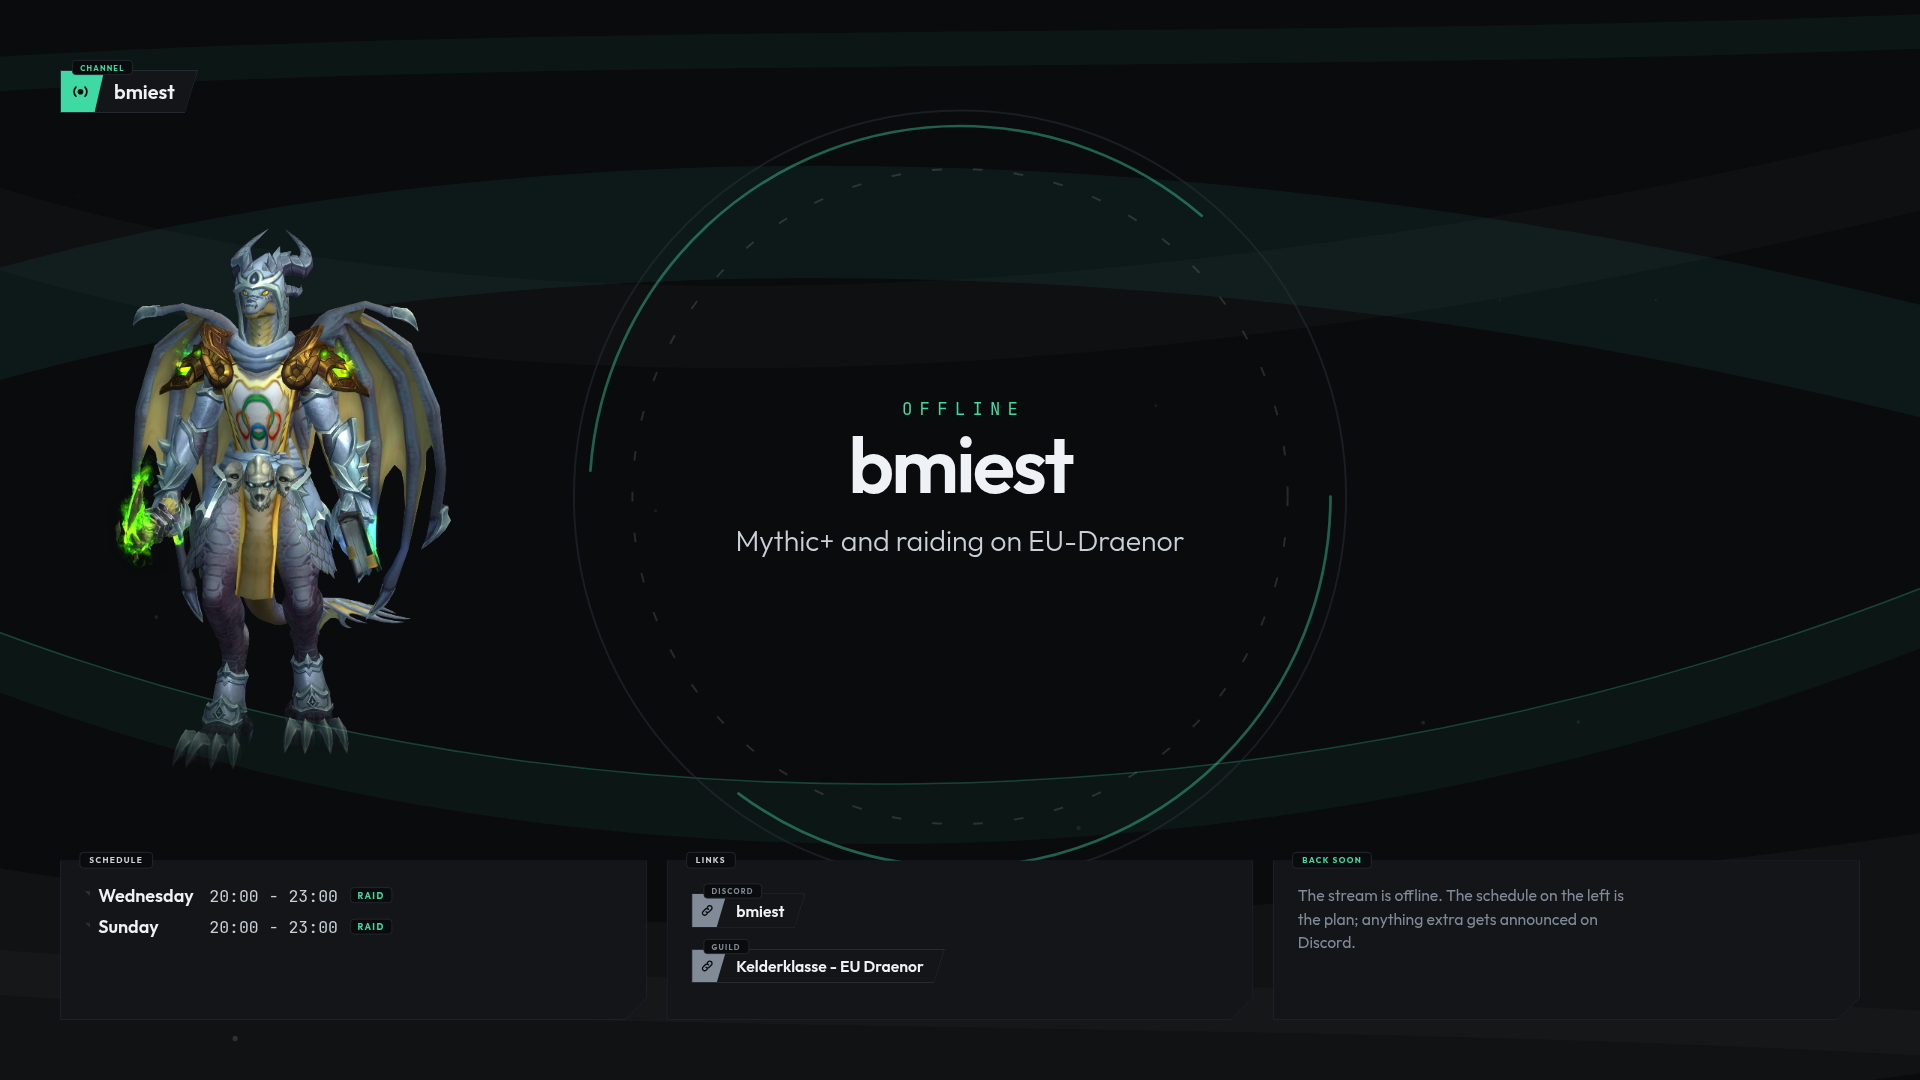
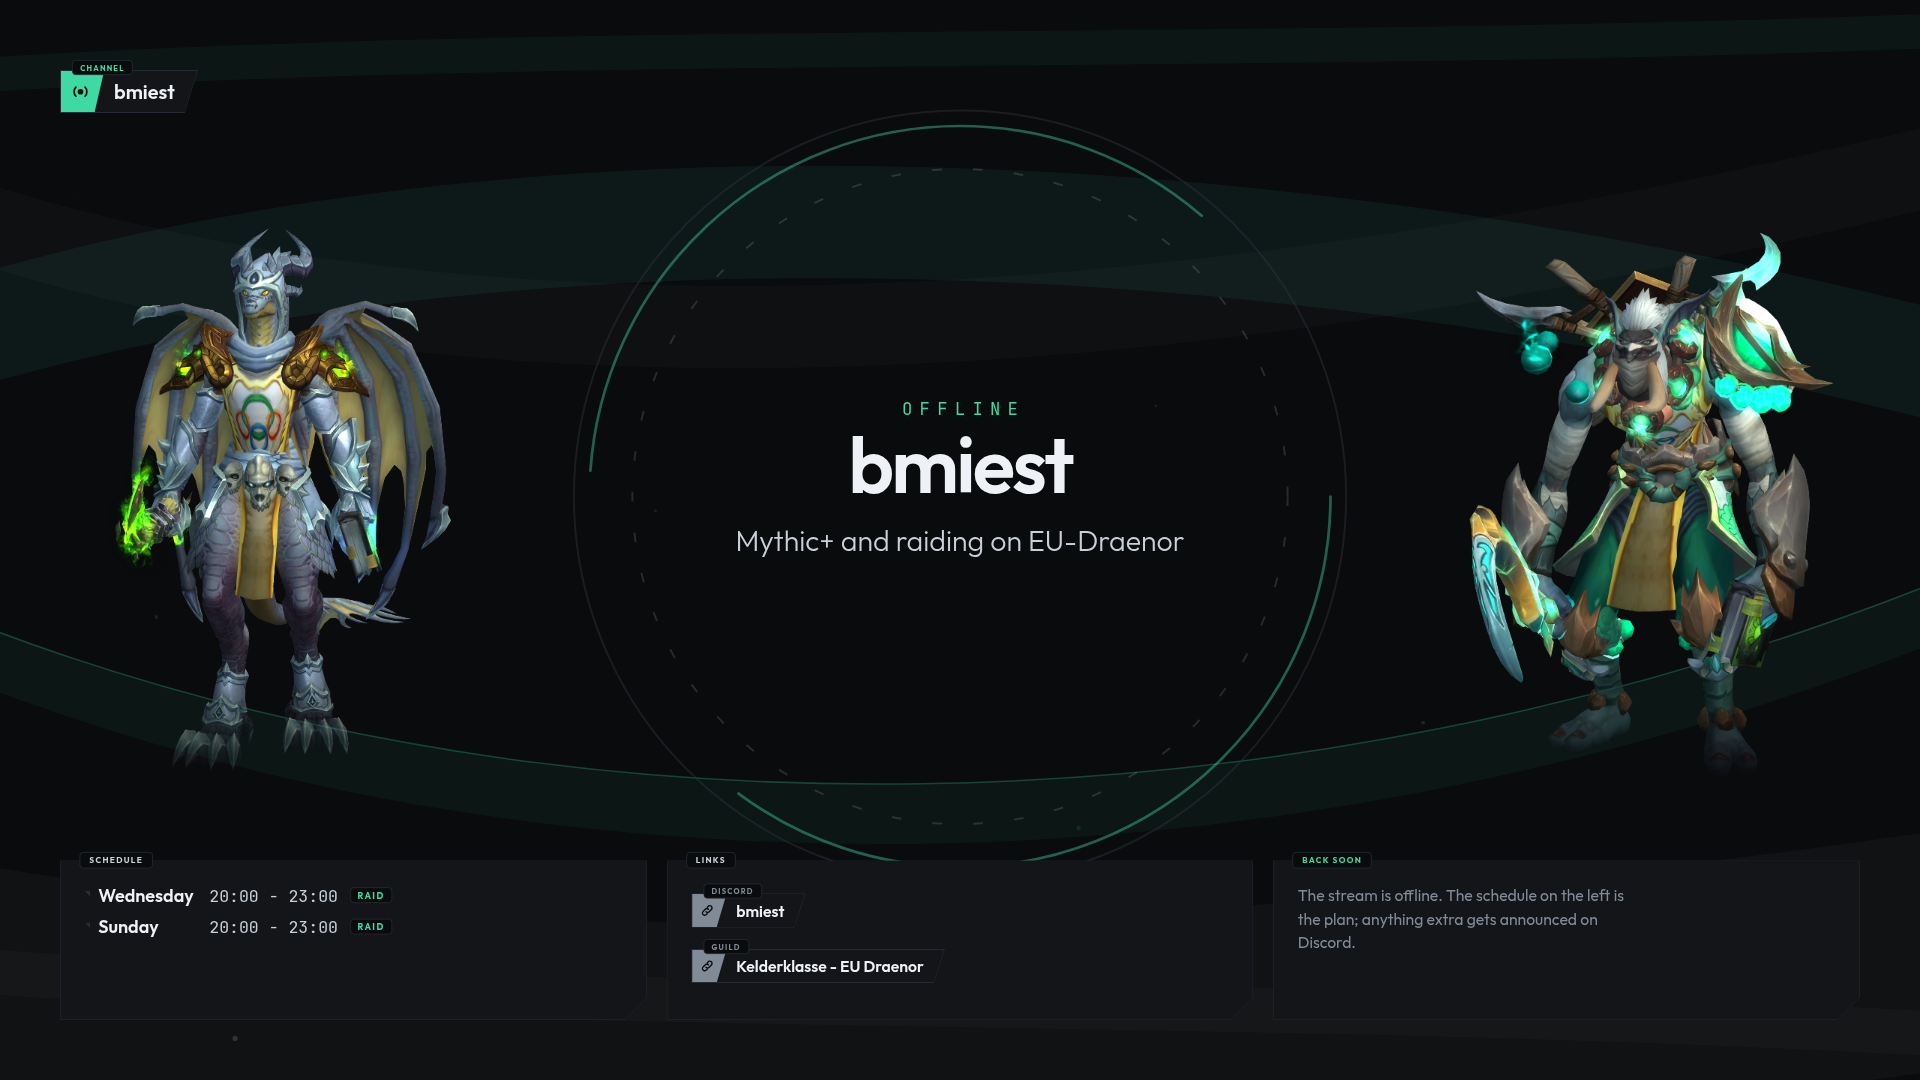
Twee characters op de flanken van de pauzeschermen
Rechts stond nog leeg. De starting-, brb- en ending-schermen en het
offline-scherm zetten nu de eerste twee characters uit je config op de twee
flanken, in configvolgorde. Staat er maar één in, dan blijft rechts leeg:
dezelfde render twee keer leest als een fout. Elke fetch staat op zichzelf,
dus faalt er één dan komt de andere er nog gewoon.

Verplaatst, niet gespiegeld. Ik heb het geprobeerd -- dan staan ze naar elkaar
toe -- maar deze renders staan frontaal, dus spiegelen verandert de compositie
niet en zet wel de wapens in de verkeerde hand en de schouderstukken op de
verkeerde schouder.

Zelfde vensteroffset voor beide kanten. Het figuur staat in de ene render 33px
verder naar links dan in de andere (588 tegen 555), dus de rechter komt 25px
dichter bij de rand uit. Op 2560 is dat niet te zien, en een tweede offset zou
bij een derde character weer niet kloppen.

Gemeten dat het past: de vensters staan op 96-611 en 1949-2464, de halo loopt
van 760 tot 1800, de voetkaarten beginnen op 1136 en het venster stopt op
1048. graphics/offline.png opnieuw gerenderd.

Changed region(s): [[0.75, 0.2139, 0.9688, 0.7028]]

diff --git a/css/scene.css b/css/scene.css
@@ -26,11 +26,16 @@ html,body{width:100vw;height:100vh;background:var(--ink-900);overflow:hidden}
    half buiten beeld gedraaid las het niet als een veer maar als een veeg
    over de achtergrond. De banen doen dat werk nu. */
 
-/* ---- character op de flank -----------------------------------------
+/* ---- characters op de flanken --------------------------------------
    De render is 1600x1200 met veel transparante ruimte eromheen. Dit venster
    snijdt het figuur eruit met een vaste offset; gemeten op beide characters
    past dat (Shiftheal staat op 588-1051, Bhikhu op 555-1042). Onderaan
-   uitvagen, zodat hij niet met een harde rand boven de voetkaarten eindigt. */
+   uitvagen, zodat hij niet met een harde rand boven de voetkaarten eindigt.
+
+   Eén per flank. De halo is 1040 breed en staat gecentreerd, dus die loopt
+   van 760 tot 1800; deze twee vensters staan op 96-611 en 1949-2464 en raken
+   hem dus niet. De voetkaarten beginnen op 1136 en het venster stopt op
+   1048. */
 .scene__char{
   position:absolute;left:96px;bottom:392px;z-index:1;
   width:515px;height:755px;overflow:hidden;pointer-events:none;
@@ -38,6 +43,17 @@ html,body{width:100vw;height:100vh;background:var(--ink-900);overflow:hidden}
           mask-image:linear-gradient(to bottom,#000 76%,transparent 100%);
 }
 .scene__char img{position:absolute;left:-545px;top:-250px;width:1600px;height:1200px}
+
+/* Alleen omgezet naar de andere kant, niet gespiegeld. Ik heb het geprobeerd
+   -- dan staan ze naar elkaar toe -- maar deze renders staan frontaal, dus
+   spiegelen verandert de compositie niet en zet wel de wapens in de verkeerde
+   hand en de schouderstukken op de verkeerde schouder.
+
+   Hetzelfde vensteroffset voor beide flanken. Het figuur staat niet in beide
+   renders even ver naar links (588 tegen 555), dus de rechter komt 25px
+   dichter bij de rand uit dan de linker. Op 2560 is dat niet te zien en een
+   tweede offset zou bij een derde character weer niet kloppen. */
+.scene__char--r{left:auto;right:96px}
 
 /* ---- kop ----------------------------------------------------------- */
 .scene__top{display:flex;align-items:flex-start;gap:18px;position:relative;z-index:2}

diff --git a/js/scene.js b/js/scene.js
@@ -194,23 +194,32 @@ function refresh(){
   }).catch(function(){});
 }
 
-/* ---- character op de flank -----------------------------------------
-   De linkerflank stond leeg naast de halo, en op een pauzescherm is jouw
-   character het onderwerp. De render komt van Blizzard via de omweg in
-   js/raiderio.js; daarvoor staat dat script hier weer bij. */
+/* ---- characters op de flanken --------------------------------------
+   De flanken stonden leeg naast de halo, en op een pauzescherm zijn jouw
+   characters het onderwerp. De render komt van Blizzard via de omweg in
+   js/raiderio.js; daarvoor staat dat script hier weer bij.
+
+   Eén per flank, in de volgorde van je config. Staat er maar één character
+   in, dan blijft de rechterflank leeg: twee keer dezelfde render naast
+   elkaar leest als een fout, niet als een ontwerp. Faalt er één, dan komt
+   de andere er nog gewoon -- elke fetch staat op zichzelf. */
 (function(){
   var list = (CFG.raiderio && CFG.raiderio.characters) || [];
   if(!list.length || !window.RaiderIO) return;
-  window.RaiderIO.character(list[0]).then(function(c){
-    if(!c.render) return;
-    var box = U.el('div','scene__char');
-    var img = document.createElement('img');
-    img.alt = '';
-    img.setAttribute('aria-hidden','true');
-    img.src = c.render;
-    box.appendChild(img);
-    document.getElementById('stage').appendChild(box);
-  }).catch(function(){});
+  var stage = document.getElementById('stage');
+
+  list.slice(0, 2).forEach(function(spec, i){
+    window.RaiderIO.character(spec).then(function(c){
+      if(!c.render) return;
+      var box = U.el('div','scene__char' + (i ? ' scene__char--r' : ''));
+      var img = document.createElement('img');
+      img.alt = '';
+      img.setAttribute('aria-hidden','true');
+      img.src = c.render;
+      box.appendChild(img);
+      stage.appendChild(box);
+    }).catch(function(){});
+  });
 })();
 
 /* ---- start ---------------------------------------------------------- */

diff --git a/js/graphics.js b/js/graphics.js
@@ -53,18 +53,21 @@ function offline(){
   window.Backdrop.mount(stage, {motes:14});
   U.$('#gTop').appendChild(rib('live', 'channel', NAME));
 
-  /* Zelfde character op de flank als de scene-schermen. Dit is een render,
-     dus build-graphics.sh moet even wachten tot Blizzards PNG binnen is. */
+  /* Zelfde characters op de flanken als de scene-schermen, één per kant.
+     Dit zijn renders van Blizzards CDN, dus build-graphics.sh moet even
+     wachten tot ze binnen zijn -- vandaar het ruime virtual-time-budget. */
   var list = (CFG.raiderio && CFG.raiderio.characters) || [];
   if(list.length && window.RaiderIO){
-    window.RaiderIO.character(list[0]).then(function(c){
-      if(!c.render) return;
-      var box = U.el('div','scene__char');
-      var img = document.createElement('img');
-      img.alt = ''; img.src = c.render;
-      box.appendChild(img);
-      stage.appendChild(box);
-    }).catch(function(){});
+    list.slice(0, 2).forEach(function(spec, i){
+      window.RaiderIO.character(spec).then(function(c){
+        if(!c.render) return;
+        var box = U.el('div','scene__char' + (i ? ' scene__char--r' : ''));
+        var img = document.createElement('img');
+        img.alt = ''; img.src = c.render;
+        box.appendChild(img);
+        stage.appendChild(box);
+      }).catch(function(){});
+    });
   }
 
   var foot = U.$('#gFoot');

diff --git a/README.md b/README.md
@@ -415,11 +415,16 @@ text, and the top bar counts on from the last answer and re-syncs on every
 poll: DecAPI stays the source, the ticking is just the in-between. The changing
 area is a few mono digits, so it costs the encoder nothing worth mentioning.
 
-### Your character on the pause screens
+### Your characters on the pause screens
 
-The starting, BRB and ending screens put your character on the left flank,
-full body, and so does the offline graphic. That flank was empty next to the
-halo, and on a pause screen your character is the subject.
+The starting, BRB and ending screens put a character on each flank, full body,
+and so does the offline graphic. The first two from
+`raiderio.characters` in config order, left and right. Those flanks were empty
+next to the halo, and on a pause screen your characters are the subject.
+
+With one character configured the right flank stays empty: the same render
+twice reads as a mistake rather than a design. Each fetch stands on its own, so
+if one fails the other still arrives.
 
 The image is Blizzard's own render, and getting at it needs no key. Raider.IO
 already hands us a thumbnail from Blizzard's render CDN; the same base with
@@ -434,6 +439,16 @@ window with a fixed offset that crops it out. Measured on both characters:
 Shiftheal occupies 588-1051 horizontally, Bhikhu 555-1042, so one window fits
 both. The bottom fades out, otherwise the figure ends on a hard edge above the
 cards.
+
+Both flanks use that same offset. Because the figures do not sit equally far
+left in their renders, the right one lands 25px closer to the edge than the
+left one, which on 2560 pixels is not something you can see. And the right
+flank is moved, not mirrored: these renders face front, so mirroring changes
+nothing about the composition and does put the weapons in the wrong hand.
+
+The two windows sit at 96-611 and 1949-2464. The halo is 1040 wide and
+centred, so it runs 760 to 1800 and they do not touch it; the foot cards start
+at 1136 and the windows stop at 1048.
 
 `js/raiderio.js` is back on the scene pages for this. It was there before for
 a character ribbon in the header, which only repeated the bottom bar; a
